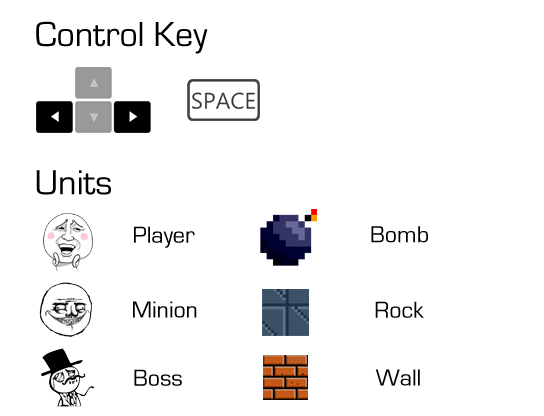
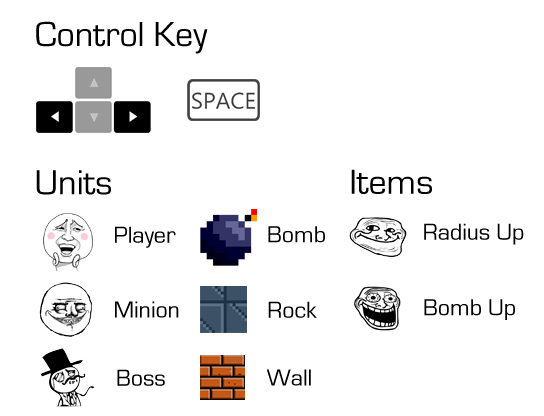
level up item pick

diff --git a/TheBomberMan/src/panel/MainMenuPanel.java b/TheBomberMan/src/panel/MainMenuPanel.java
@@ -2,11 +2,12 @@ package panel;
 
 import javafx.event.ActionEvent;
 import javafx.event.EventHandler;
+import javafx.scene.Group;
 import javafx.scene.canvas.GraphicsContext;
 import javafx.scene.control.Button;
 import javafx.scene.image.Image;
 import javafx.scene.input.KeyEvent;
-
+import javafx.scene.paint.Color;
 import System.GraphicEngine;
 
 public class MainMenuPanel extends GraphicPanel{
@@ -18,6 +19,24 @@ public class MainMenuPanel extends GraphicPanel{
 		super(width, height);
 		this.getGraphicsContext2D().drawImage(image, 0, 0);
 		
+		help = new Button("Help!");
+		help.setLayoutX(450);
+		help.setLayoutY(280);
+		help.setOnAction(new EventHandler<ActionEvent>(){
+
+			@Override
+			public void handle(ActionEvent arg0) {
+				GraphicEngine.getRoot().getChildren().clear();
+				HelpPanel helpPanel = new HelpPanel(Window.WIDTH, Window.HEIGHT);
+				GraphicEngine.getRoot().getChildren().add(helpPanel);
+				GraphicEngine.getRoot().getChildren().add(helpPanel.getBackButton());
+				
+			}
+			
+			
+		});
+		
+		
 		start = new Button("Start!");
 		start.setLayoutX(450);
 		start.setLayoutY(320);
@@ -25,8 +44,12 @@ public class MainMenuPanel extends GraphicPanel{
 
 			@Override
 			public void handle(ActionEvent arg0) {
+				GraphicEngine.getRoot().getChildren().clear();
 				InGamePanel inGamePanel = new InGamePanel(Window.WIDTH, Window.HEIGHT);
 				GraphicEngine.getRoot().getChildren().add(inGamePanel);
+				inGamePanel.start();
+				inGamePanel.initEvents();
+				GraphicEngine.getScene().setFill(Color.rgb(128,128,128));
 				
 			}
 			
@@ -51,8 +74,11 @@ public class MainMenuPanel extends GraphicPanel{
 		
 	}
 	
-	public Button getButton(){
+	public Button getStartButton(){
 		return this.start;
 	}
 	
+	public Button getHelpButton(){
+		return this.help;
+	}
 }

diff --git a/TheBomberMan/src/System/PhysicsManager.java b/TheBomberMan/src/System/PhysicsManager.java
@@ -41,11 +41,12 @@ public  class  PhysicsManager implements Runnable{
 				public void actionPerformed(ActionEvent e) {
 					checkGameOver();
 					if (!game.isGameOver()) {
-						//winning();
+						winning();
 						explosionDetector();
 						itemPickUp();
+						
 					}
-					//removeCorpse();
+					
 
 				}
 
@@ -205,7 +206,7 @@ public static boolean CollisionDetector(Units unit1, Units unit2, CollisionType 
 		}
 	}
 	public void explosionDetector() {
-		for (int i = 0; i < game.getExplosionArray().size(); i++) {
+		try{for (int i = 0; i < game.getExplosionArray().size(); i++) {
 			for (int j = 0; j < game.getWallArray().size(); j++) {
 				if (CollisionDetector(game.getExplosionArray().get(i), game.getWallArray()
 						.get(j), CollisionType.OVERLAP)) {
@@ -218,6 +219,7 @@ public static boolean CollisionDetector(Units unit1, Units unit2, CollisionType 
 				if (CollisionDetector(game.getExplosionArray().get(i), game
 								.getEnemyArray().get(j), CollisionType.OVERLAP)) {
 					game.getEnemyArray().get(j).die();
+					
 					System.out.print("enenmy dead");
 				}
 			}
@@ -228,6 +230,9 @@ public static boolean CollisionDetector(Units unit1, Units unit2, CollisionType 
 				System.out.print("player dead");
 			}
 			
+		}
+		}catch(Exception e){
+			e.printStackTrace();
 		}
 	}
 	public void enemyRandomWalk(Enemy en) {
@@ -370,10 +375,11 @@ public static boolean CollisionDetector(Units unit1, Units unit2, CollisionType 
 
 	public void winning() {
 		if (game.getEnemyArray().isEmpty()) {
+			game.removeAll();
 			MainEngine.levelUp(game);
 		}
 	}
-
+	
 	/* set
 	 */
 	public void checkGameOver() {

diff --git a/TheBomberMan/src/panel/GameApplication.java b/TheBomberMan/src/panel/GameApplication.java
@@ -6,11 +6,13 @@ import System.PhysicsManager;
 import javafx.application.Application;
 import javafx.scene.Group;
 import javafx.scene.Scene;
+import javafx.scene.layout.Pane;
 import javafx.stage.Stage;
 
 public  class GameApplication extends Application{
 	protected static Group mGroup;
-	protected Scene mScene;
+	protected static Scene mScene;
+	protected static Pane mPane;
     protected GameStatus game ;
     protected PhysicsManager pm;
     
@@ -21,7 +23,8 @@ public  class GameApplication extends Application{
 	@Override
 	public void start(Stage primaryStage) throws Exception {
 		loadBefore();
-		mGroup= new Group();
+		mPane = new Pane();
+		mGroup= new Group(mPane);
 		mScene = new Scene(mGroup, Window.WIDTH, Window.HEIGHT);		
 		loadEnd();
 		showStage(primaryStage);
@@ -40,15 +43,18 @@ public  class GameApplication extends Application{
 		stage.show();
 	}
 	
-	protected Scene getScene(){
+	
+	protected static Scene getScene(){
 		return mScene;
 	}
 	
-	protected static Group getRoot(){
-		return mGroup;
+	protected static Pane getRoot(){
+		return mPane;
 	}
 	
 	public void setWindowSize(int width, int height){
 		Window.init(width, height);
 	}
+	
+	
 }

diff --git a/TheBomberMan/src/panel/HelpPanel.java b/TheBomberMan/src/panel/HelpPanel.java
@@ -1,7 +1,35 @@
 package panel;
 
+import System.GraphicEngine;
+import javafx.event.ActionEvent;
+import javafx.event.EventHandler;
 import javafx.scene.canvas.Canvas;
+import javafx.scene.control.Button;
+import javafx.scene.image.Image;
 
-public class HelpPanel {
+public class HelpPanel extends Canvas {
+	Image image = new Image("Image/help.png",544,416,false,true);
+	Button back;
+	
+	public HelpPanel(double width,double height){
+		super(width,height);
+		this.getGraphicsContext2D().drawImage(image, 0, 0);
+		back = new Button ("Back!");
+		back.setOnAction(new EventHandler<ActionEvent>(){
 
+			@Override
+			public void handle(ActionEvent arg0) {
+				GraphicEngine.getRoot().getChildren().clear();
+				MainMenuPanel mainMenuPanel = new MainMenuPanel(Window.WIDTH, Window.HEIGHT);
+				GraphicEngine.getRoot().getChildren().add(mainMenuPanel);
+				GraphicEngine.getRoot().getChildren().add(mainMenuPanel.getStartButton());
+				GraphicEngine.getRoot().getChildren().add(mainMenuPanel.getHelpButton());
+			}
+			
+		});
+	}
+	
+	public Button getBackButton(){
+		return this.back;
+	}
 }

diff --git a/TheBomberMan/src/System/GameStatus.java b/TheBomberMan/src/System/GameStatus.java
@@ -39,7 +39,7 @@ public class GameStatus {
 		bombArray= new ArrayList<Bomb>();
 		itemArray= new ArrayList<Item>();
 		explosionArray = new ArrayList<Explosion>();
-		InitializeGame(1);
+		InitializeGame(2);
 		gameOver = false;
 		
 	}
@@ -106,7 +106,14 @@ public class GameStatus {
 		wallArray.remove(index);
 		System.out.print("this wall removed");
 	}
-
+	public void removeAll(){
+		bombArray.clear();
+		wallArray.clear();
+		rockArray.clear();
+		itemArray.clear();
+		enemyArray.clear();
+		explosionArray.clear();
+	}
 	public void InitializeGame(int lvl){
 		bombArray = new ArrayList<Bomb>();
 		wallArray = new ArrayList<Wall>();
@@ -120,10 +127,10 @@ public class GameStatus {
 		int itemChance = 5;
 
 		if (lvl % 2 == 0) {
-			enemyChance = 10;
+			enemyChance = 5;
 			wallChance = 40;
 		} else if (lvl % 3 == 0) {
-			enemyChance = 15;
+			enemyChance = 10;
 			wallChance = 30;
 			enemyArray.add(new Boss(480,320));
 		} else {

diff --git a/TheBomberMan/src/System/GraphicEngine.java b/TheBomberMan/src/System/GraphicEngine.java
@@ -15,6 +15,7 @@ import panel.InGamePanel;
 public class GraphicEngine extends GameApplication implements Runnable {
 	
 	//protected InGamePanel inGamePanel;
+	//protected MainMenuPanel mainMenuPanel;
 	
 	public GraphicEngine(){
 		game = new GameStatus();
@@ -45,8 +46,8 @@ public class GraphicEngine extends GameApplication implements Runnable {
 		
 		MainMenuPanel mainMenuPanel = new MainMenuPanel(Window.WIDTH, Window.HEIGHT);
 		getRoot().getChildren().add(mainMenuPanel);
-		getRoot().getChildren().add(mainMenuPanel.getButton());
-		mainMenuPanel.start();
+		getRoot().getChildren().add(mainMenuPanel.getStartButton());
+		getRoot().getChildren().add(mainMenuPanel.getHelpButton());
 		
 	}
 	
@@ -64,8 +65,6 @@ public class GraphicEngine extends GameApplication implements Runnable {
 	public void run() {
 		launchGraphicEngine();
 	}
-	
-	
 
 	
 	

diff --git a/TheBomberMan/src/System/MainEngine.java b/TheBomberMan/src/System/MainEngine.java
@@ -33,13 +33,11 @@ public class MainEngine extends Application  {
     	
 	}
 
-    
-	public static void levelUp(GameStatus gs) {
-   		gs.getPlayer().setLevel(gs.getPlayer().getLevel() + 1);
-   		gs.InitializeGame(gs.getPlayer().getLevel());
-   		gs.getPlayer().setCoordinates(32, 32);
-   		sound.playSound("/image/levelup.wav", false);
-   		gs.getPlayer().setScore(gs.getPlayer().getScore()+500 );
+    public static void levelUp(GameStatus game) {
+   		game.getPlayer().setLevel(game.getPlayer().getLevel() + 1);
+   		game.InitializeGame(game.getPlayer().getLevel());
+   		game.getPlayer().setCoordinates(32, 32);
+   		game.getPlayer().setScore(game.getPlayer().getScore()+500 );
    	}
    	
 	public static void scoreCopy() {

diff --git a/TheBomberMan/src/System/Item.java b/TheBomberMan/src/System/Item.java
@@ -15,15 +15,13 @@ public class Item extends NonLivingObj {
 	
 	public Item(int x, int y) {
 		super(x, y);
-		Image image = new Image("Image/item 2.png", 32.0, 32.0, false, true);
-		this.setImage(image);
 		if (r.nextInt(100)<50){
 			settype(ItemType.BLAST);
-			//this.setImage(new Image("Image/item.png", 32.0, 32.0, false, true));
+			this.setImage(new Image("Image/item 1.png", 32.0, 32.0, false, true));
 		}
 		else {
 			settype(ItemType.BOMB);
-			//this.setImage(new Image("Image/item 2.png", 32.0, 32.0, false, true));
+			this.setImage(new Image("Image/item 2.png", 32.0, 32.0, false, true));
 		}
 	}
 	

diff --git a/TheBomberMan/src/panel/InGamePanel.java b/TheBomberMan/src/panel/InGamePanel.java
@@ -19,7 +19,6 @@ public class InGamePanel extends GraphicPanel  {
 	public InGamePanel(double width, double height) {
 		super(width, height);
 		this.game = new GameStatus();
-		//this.mGameState= GamePanel.GAME_START;
 		this.pm = new PhysicsManager(game);
 		
 		
@@ -163,7 +162,7 @@ public void drawpanel(GraphicsContext gc) {
 		for (int i = 0; i < game.getItemArray().size(); i++) {
 			if(game.getItemArray().get(i).isDead()){
 			game.getItemArray().get(i).clear(gc);
-			//game.removeItem(i);
+			game.removeItem(i);
 			}
 			
 		}
